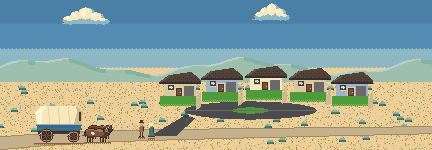
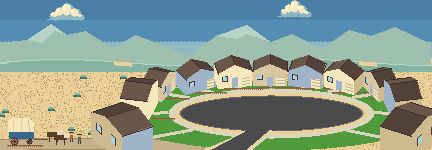
Add cul-de-sac settlement ending and approved scene cleanup (#184)

diff --git a/docs/UNHINGED_MODE.md b/docs/UNHINGED_MODE.md
@@ -24,7 +24,7 @@ If the authorities take a traveler carrying the Novablade, it is held with their
 | prairie_light | place | Fort Kearny to Fort John | Lighthouse: safe rest day, fish $1 for 20 lb |
 | onyx_sphere | place | Weber River to Salt Lake to Hensley's Bear River ford | Seen from Bridger to the Raft River; touching it costs a day, may heal |
 | beached_ship | place | Fort Kearny to Fort John | Three-master on the grass; salt pork for directions, or recruit Hollis Venn, the ship's carpenter |
-| cul_de_sac | place | South Pass to Soda Springs | Eleven empty houses; rest a day on a lawn (people and team) |
+| cul_de_sac | place | South Pass to Soda Springs | Eleven empty houses; rest a day on a lawn, or move into one and end the journey |
 | laundromat | place | either side of Soda Springs | $1 wash, health |
 | round_hole | place | Fort Hall to The Dalles | Drop in bullets or food; something may come back |
 | traffic_light | place | just short of South Pass | Wait a day, or run it (risk to team and party) |
@@ -43,8 +43,8 @@ Names are invented (Spencer: legally distinct names, so Novablade, Hanabi Civet,
 
 Spencer approved every item below. Build them in this order. Each one is its own PR, with tests in `tests/test_unhinged.gd`.
 
-1. **Sailor companion (beached_ship) — implemented.** "Sign on the sailor" recruits Hollis Venn through `party_recruitment.gd`'s normal hiring path. The ship's carpenter uses the existing Carpentry background (there is no sailing or rope background). No wages or extra day; ordinary recruit clothing, personal gear, relationships and permanent traveler history apply. The traveler-record/contact limits still apply, and the sailor can join only once. Offer and recruited-party saves are covered in `tests/test_unhinged.gd`. **Next: item 2.**
-2. **Cul-de-sac ending (cul_de_sac).** Add a choice "Move into a house" that settles the party there. Follow `docs/CABINS_AND_ENDINGS.md` and the settle code: add a new `state.settled` kind, an ending score factor in `data/scoring.json` (suggest the same as settling at a post), and an ending picture `location_ending_cul_de_sac`. That picture is for the Aseprite thread, or use the place picture until it exists.
+1. **Sailor companion (beached_ship) — implemented.** "Sign on the sailor" recruits Hollis Venn through `party_recruitment.gd`'s normal hiring path. The ship's carpenter uses the existing Carpentry background (there is no sailing or rope background). No wages or extra day; ordinary recruit clothing, personal gear, relationships and permanent traveler history apply. The traveler-record/contact limits still apply, and the sailor can join only once. Offer and recruited-party saves are covered in `tests/test_unhinged.gd`.
+2. **Cul-de-sac ending (cul_de_sac) — implemented.** "Move into a house" ends the journey with `state.settled.kind = "cul_de_sac"`, using the ordinary settlement factor (0.6). The ending screen uses `ending_cul_de_sac`, currently sharing the place picture until a dedicated ending picture exists. No extra day or supplies; the party stays at its encounter mile and saves there. **Next: item 3, laundromat disease protection.**
 3. **Laundromat slows disease.** "Wash everything" should also lower disease onset for some days, for example `state.clean_until = day + 14`. Find the daily disease onset in `party_health.gd` or the disease clocks and scale it down while clean. Keep it modest.
 4. **The sphere on the horizon — implemented.** `ui/far_sphere.gd` draws it on the travel horizon and in stop pictures while `onyx_sphere` is in view, sized by map distance from the party (`main.gd` `_sphere_look`). "The compass points only at it" can still be a journal line.
 5. **Road encounter sprites.** Each road oddity has only text on the travel strip. Draw small sprites for novablade, civet (a beige sedan towing the wagon, used while `fuel` > 0; replaces `art/pixels/corolla.png`), vending_machine, french_bison, phone_booth, frog_rain (an overlay) and mirror_train (an east-facing copy of the party's wagon). Wire them in `trail_view.gd` `match encounter`.

diff --git a/docs/CABINS_AND_ENDINGS.md b/docs/CABINS_AND_ENDINGS.md
@@ -39,6 +39,8 @@ The journey then ends with status `settled` and `state.settled` = {place, kind, 
 - `cabin` (welcomed, with a finished cabin);
 - `run_off`.
 
+In Unhinged mode, the houses in the sage encounter also offers **Move into a house**. This ends the journey immediately with kind `cul_de_sac`, without spending a day or changing supplies. The route position remains on the road where the houses were met; `settled.place` records the last route stop. Its score factor is 0.6, the same as an ordinary settlement. The ending screen currently reuses the cul-de-sac place picture.
+
 ## Scores for every ending
 
 The score is:
